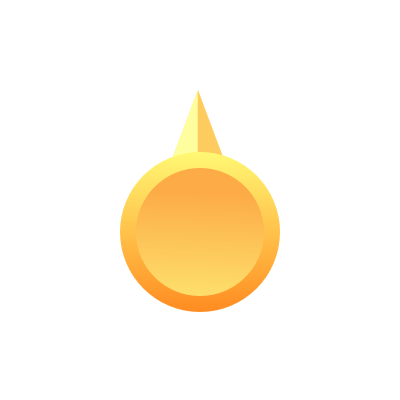
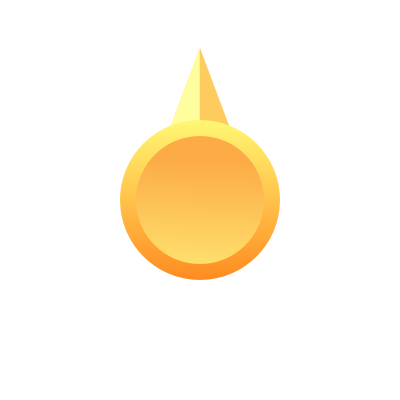
luyou

Changed region(s): [[0.3, 0.12, 0.72, 0.78]]

diff --git a/src/page/secondkilllogin.vue b/src/page/secondkilllogin.vue
@@ -23,7 +23,7 @@
         </div>
         <div class="list_item">
           <span class="title">选择经销商</span>
-          <span class="checked" @click="checkedlist">请选择提车经销商参与活动<i class="iconfont icon-jiantou"></i></span>
+          <span class="checked" @click="checkedlist">{{dealerName?dealerName.substr(0,12):'请选择提车经销商参与活动'}}<i class="iconfont icon-jiantou"></i></span>
         </div>
         <div class="siginout" v-show="localname" @click="loginout">不是{{localname}}? 点此退出</div>
         <div class="sedkillbtn" @click="login">报名秒杀</div>
@@ -47,14 +47,19 @@
             ipone_err:false,
             localname:"",
             itemId:'',
-            dealerId:10001,
             mesg:"",
-            codeId:''
+            codeId:'',
+            dealerId:'',
+            dealerName:''
           }
       },
       components :{
         loading,
         mesg
+      },
+      activated(){
+          this.dealerId= localStorage.dealerId;
+          this.dealerName= localStorage.dealerName;
       },
       methods : {
         Pickclick : function (data){
@@ -110,7 +115,9 @@
           location.reload()
         },
         login:function(){
-          if(!this.userName || !this.userPhone || !this.userCode){
+          if(!this.userName || !this.userPhone || !this.userCode ||!this.dealerId ){
+            this.mesg='';
+            this.mesg='请填入报名信息';
             return;
           }
           api.base_login({userPhone:this.userPhone,checkCode:this.userCode,username :this.userName})

diff --git a/src/assets/css/actiona.css b/src/assets/css/actiona.css
@@ -6,13 +6,13 @@
 .banner .turnplate{display:block; width:336px; height: 336px; margin: 0 auto; position:relative;}
 .banner .turnplate canvas.item{position: absolute; left: 0; right:0; top:0; bottom:0; margin: auto;}
 .banner .turnplate .pointer {position: absolute;
-  width: 50%;
-  height: 50%;
+  width: 60%;
+  height: 60%;
   background: url("../img/jt2.png") no-repeat;
   background-size: 100% 100%;
-  left: 25%;
-  top: 21.5%;
-  transform-origin: 51% 58%;}
+  left: 19.6%;
+  top: 20%;
+  transform-origin: 50% 50%;}
 .turnplate { background: url("../img/cj_bg.png") no-repeat; background-size:100% 100%; }
 /*.more{display: block;width: 100%;position: fixed;top: 0;left: 0;height: 150px;}*/
 .cloud{position: fixed;left: 0;top: 70%;width: 150px;}
@@ -47,6 +47,6 @@
   width:2em; display: inline-block; position: absolute;left: 50%;
   margin-left: -1em;
   top: 50%; font-size: .2rem; line-height: 1.2;
-  margin-top: -0.6em;}
+  margin-top: -1.2em;}
 .centermesg.end { color: #C75D0D;}
 .centermesg.poining { color: #C75D0D;}

diff --git a/src/assets/css/SecondKilllogin.css b/src/assets/css/SecondKilllogin.css
@@ -7,7 +7,8 @@
   z-index:1;}
 .list_item .title { text-indent: .04rem; width: .9rem; display: inline-block; position: relative;z-index: 9; text-align: left;}
 .list_item:not(:last-child)::before { content: ""; width: auto; left: .15rem; right: .15rem; position: absolute; height: 1px; background: #f1f1f1; bottom: 0; z-index: 9; }
-.checked,.checked>i { float: right; color: #B7B7B7;}
+.checked,.checked>i { color: #B7B7B7;}
+.checked>i { float: right;}
 .getcode { position: absolute; width: .72rem; right: .15rem; font-size: .12rem; text-align: center; top: .11rem;
   height:.28rem; line-height: .28rem; border: 1px solid #57B5F2; color: #57B5F2; z-index: 13;}
 .siginout { text-align: right; font-size: .12rem; color: #52B4F5; margin-top: .12rem;}

diff --git a/src/page/sedkillloginchecked.vue b/src/page/sedkillloginchecked.vue
@@ -20,7 +20,7 @@
 
         </div>
         <div class="checkedlist">
-            <div class="listitem" v-for="item in checkedlist">
+            <div class="listitem" v-for="item in checkedlist" @click="checkedDealer(item)">
                 <img class="logoimg" :src="item.dealerPicUrl" />
                 <div class="mesg_right">
                   <div class="title">{{item.dealerFullName}}</div>
@@ -94,6 +94,11 @@
           }).catch(error => {
             console.log(error)
           });
+        },
+        checkedDealer:function(item){
+          localStorage.dealerId=item.dealerId;
+          localStorage.dealerName=item.dealerFullName;
+          this.$router.back()
         }
 
       },

diff --git a/src/page/secondlist.vue b/src/page/secondlist.vue
@@ -38,7 +38,7 @@
 </template>
 <script>
   import Final from "../util/Final";
-  import API from "./../fetch/api";
+  import api from "./../fetch/api";
   import loading from "../components/loading";
   import countdown from "../components/countdown";
   export default {
@@ -151,7 +151,7 @@
           }
       },
       created (){
-        //alert("create");
+
       },
       components :{
         loading,
@@ -166,8 +166,13 @@
         }
 
       },
-      mounted:{
+      mounted () {
+        api.ap_sedkill_my_activity_list()
+        .then(res => {
 
+        }).catch(error => {
+
+        });
       }
   }
 

diff --git a/src/page/coupons.vue b/src/page/coupons.vue
@@ -3,7 +3,7 @@
       <loading v-show="loadingShow"></loading>
       <div class="center_box">
         <div class="bannerbox">
-          <img class="banner" v-show="status==0||status==1 ||status==10" src="../assets/img/couponBanner.png"/>
+          <img class="banner" v-show="status==0||status==1 ||status==10||status==11" src="../assets/img/couponBanner.png"/>
           <div class="bottomtext">活动日期：<br>{{beginTime+'至'+endTime}}</div>
         </div>
 

diff --git a/src/fetch/api_sedkill.js b/src/fetch/api_sedkill.js
@@ -64,7 +64,7 @@ export default {
    * @returns {*}
    */
   ap_sedkill_my_activity_list(params) {
-    return fetch.fetch('user/seckill/myActivityList', params,'post');
+    return fetch.fetch('user/seckill/myActivityList', params,'get');
   },
   /**
    * 我的活动详情

diff --git a/src/App.vue b/src/App.vue
@@ -1,7 +1,9 @@
 <template>
   <div id="app">
     <!--<img src="./assets/logo.png">-->
+    <keep-alive>
     <router-view></router-view>
+    </keep-alive>
     <!--<v-tip-msg></v-tip-msg>-->
   </div>
 </template>
